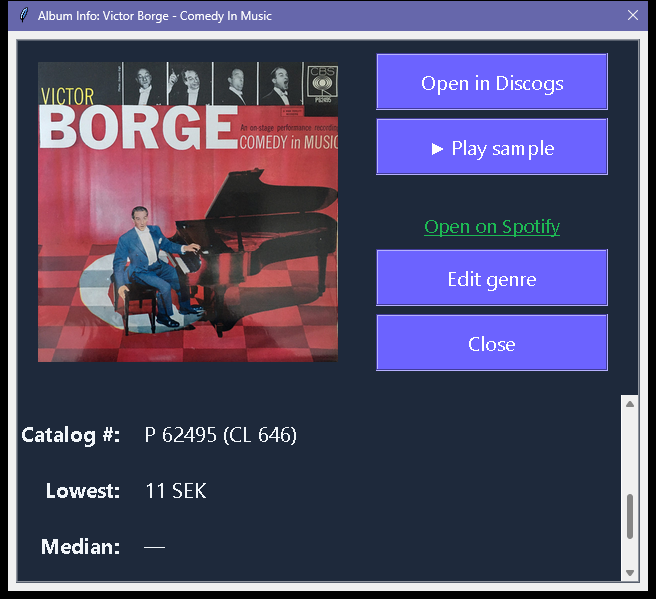
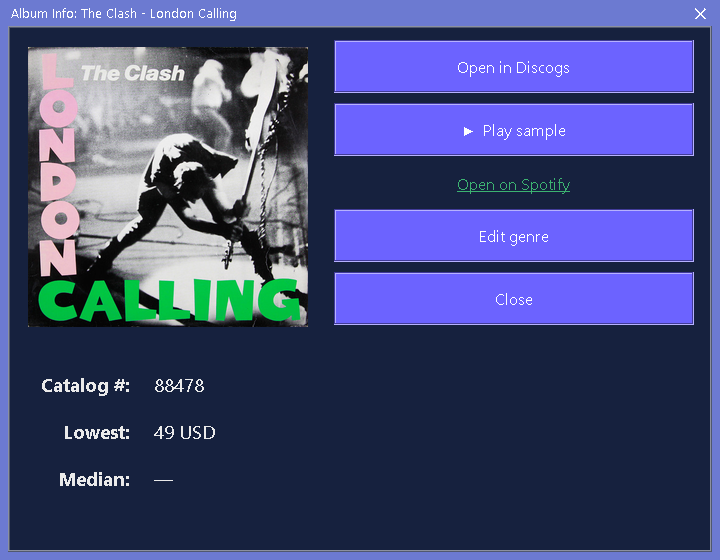
Enhance image display with zoom functionality and lightbox feature. Update styles for hero section and phone display, and replace existing images with new versions for better clarity.

diff --git a/index.html b/index.html
@@ -38,7 +38,16 @@
         </div>
         <p class="fine">Not affiliated with Discogs.</p>
       </div>
-      <img class="shot" src="assets/shelf.png" alt="Spindle cabinet view with record spines on eight shelves">
+      <div class="hero-pair">
+        <a class="zoom" href="assets/shelf.png" data-zoom aria-label="View larger: Spindle cabinet view with record spines on eight shelves">
+          <img class="shot" src="assets/shelf.png" alt="Spindle cabinet view with record spines on eight shelves">
+        </a>
+        <a class="zoom hero-phone" href="assets/phone-shelf.png" data-zoom aria-label="View larger: Spindle phone shelf view">
+          <span class="phone-frame">
+            <img src="assets/phone-shelf.png" alt="Spindle phone shelf view with album covers on a numbered shelf">
+          </span>
+        </a>
+      </div>
     </section>
 
     <section id="product" class="section">
@@ -48,7 +57,9 @@
       </div>
       <div class="features">
         <article class="feature">
-          <img class="shot" src="assets/collection-list.png" alt="Spindle collection list sorted by artist">
+          <a class="zoom" href="assets/collection-list.png" data-zoom aria-label="View larger: Spindle collection list sorted by artist">
+            <img class="shot" src="assets/collection-list.png" alt="Spindle collection list sorted by artist">
+          </a>
           <div>
             <h3>Shelf order that matches the crate</h3>
             <p>Artist, then title, then year. Leading articles come off. “Name and the …” stays with the solo name. Genre sort is there when you want sections instead of letters.</p>
@@ -66,7 +77,9 @@
           </div>
         </article>
         <article class="feature">
-          <img class="shot" src="assets/album-detail.png" alt="Album detail for Victor Borge, Comedy In Music, with a marketplace low of 11 SEK">
+          <a class="zoom" href="assets/album-detail.png" data-zoom aria-label="View larger: Album detail for The Clash, London Calling, with a marketplace low of 49 USD">
+            <img class="shot" src="assets/album-detail.png" alt="Album detail for The Clash, London Calling, with a marketplace low of 49 USD">
+          </a>
           <div>
             <h3>Prices, cabinets, and the phone</h3>
             <p>Pro shows marketplace prices with a local cache, drag-and-drop shelf order, and audio preview. Cabinets and genre edits sync to the phone through your Discogs notes.</p>
@@ -87,15 +100,21 @@
       </div>
       <div class="phone-row">
         <figure class="phone-frame">
-          <img src="assets/phone-shelf.png" alt="Spindle phone shelf view with album covers on Shelf 1">
+          <a class="zoom" href="assets/phone-shelf.png" data-zoom aria-label="View larger: Spindle phone shelf view with album covers on a numbered shelf">
+            <img src="assets/phone-shelf.png" alt="Spindle phone shelf view with album covers on a numbered shelf">
+          </a>
           <figcaption>Shelf</figcaption>
         </figure>
         <figure class="phone-frame">
-          <img src="assets/phone-scan.png" alt="Spindle phone barcode scanner pointed at a release">
+          <a class="zoom" href="assets/phone-scan.png" data-zoom aria-label="View larger: Spindle phone barcode scanner pointed at a release">
+            <img src="assets/phone-scan.png" alt="Spindle phone barcode scanner pointed at a release">
+          </a>
           <figcaption>Scan</figcaption>
         </figure>
         <figure class="phone-frame">
-          <img src="assets/phone-wishlist.png" alt="Spindle phone wishlist with Discogs wantlist albums">
+          <a class="zoom" href="assets/phone-wishlist.png" data-zoom aria-label="View larger: Spindle phone wishlist with Discogs wantlist albums">
+            <img src="assets/phone-wishlist.png" alt="Spindle phone wishlist with Discogs wantlist albums">
+          </a>
           <figcaption>Wishlist</figcaption>
         </figure>
       </div>
@@ -154,5 +173,34 @@
     </div>
     <p class="fine">© 2026 Jonathan C Edwards. Not affiliated with Discogs.</p>
   </footer>
+
+  <dialog class="lightbox" id="lightbox" aria-label="Enlarged screenshot">
+    <button type="button" class="lightbox-close" aria-label="Close">Close</button>
+    <img alt="">
+  </dialog>
+  <script>
+    (function () {
+      var box = document.getElementById("lightbox");
+      var img = box.querySelector("img");
+      var closeBtn = box.querySelector(".lightbox-close");
+      document.querySelectorAll("[data-zoom]").forEach(function (link) {
+        link.addEventListener("click", function (event) {
+          event.preventDefault();
+          var thumb = link.querySelector("img");
+          img.src = link.getAttribute("href");
+          img.alt = thumb ? thumb.getAttribute("alt") || "" : "";
+          box.showModal();
+        });
+      });
+      closeBtn.addEventListener("click", function () { box.close(); });
+      box.addEventListener("click", function (event) {
+        if (event.target === box) box.close();
+      });
+      box.addEventListener("close", function () {
+        img.removeAttribute("src");
+        img.alt = "";
+      });
+    })();
+  </script>
 </body>
 </html>

diff --git a/styles.css b/styles.css
@@ -115,8 +115,8 @@ img { max-width: 100%; }
 
 .hero {
   display: grid;
-  grid-template-columns: 1fr 1.15fr;
-  gap: 2.5rem;
+  grid-template-columns: minmax(16rem, 0.92fr) minmax(0, 1.28fr);
+  gap: 2rem;
   align-items: center;
   padding: 2.4rem 0 4rem;
 }
@@ -166,6 +166,86 @@ h1 {
   border: 1px solid var(--line);
   background: #0a0e1a;
   box-shadow: var(--shadow);
+}
+
+.hero-pair {
+  display: grid;
+  grid-template-columns: minmax(0, 1fr) minmax(8.5rem, 11.25rem);
+  gap: 0.9rem;
+  align-items: center;
+}
+
+.hero-phone {
+  align-self: stretch;
+  display: flex;
+}
+
+.hero-phone .phone-frame {
+  display: flex;
+  flex-direction: column;
+  justify-content: center;
+  height: 100%;
+}
+
+.zoom {
+  display: block;
+  color: inherit;
+  text-decoration: none;
+  cursor: zoom-in;
+  border-radius: inherit;
+}
+
+.zoom:hover img {
+  filter: brightness(1.07);
+}
+
+.zoom:focus-visible {
+  outline: 2px solid var(--accent);
+  outline-offset: 3px;
+}
+
+.lightbox {
+  position: relative;
+  max-width: min(96vw, 1400px);
+  max-height: 94vh;
+  margin: auto;
+  padding: 2.4rem 1.1rem 1.1rem;
+  border: 1px solid var(--line);
+  border-radius: 14px;
+  background: #0a0e1a;
+  color: var(--ink);
+}
+
+.lightbox::backdrop {
+  background: rgba(4, 6, 14, 0.82);
+}
+
+.lightbox img {
+  display: block;
+  max-width: min(92vw, 1360px);
+  max-height: calc(94vh - 3.2rem);
+  width: auto;
+  height: auto;
+  margin: 0 auto;
+  border-radius: 8px;
+}
+
+.lightbox-close {
+  position: absolute;
+  top: 0.45rem;
+  right: 0.55rem;
+  padding: 0.25rem 0.55rem;
+  border: 0;
+  border-radius: 999px;
+  background: var(--panel);
+  color: var(--ink);
+  font: 0.85rem/1.2 var(--sans);
+  cursor: pointer;
+}
+
+.lightbox-close:hover {
+  background: var(--accent);
+  color: #fff;
 }
 
 .section { padding: 1rem 0 4.5rem; }
@@ -242,6 +322,7 @@ h3 { margin: 0 0 0.45rem; font-size: 1.45rem; }
 }
 
 .phone-frame {
+  display: block;
   margin: 0;
   padding: 0.7rem 0.7rem 0.85rem;
   border-radius: 28px;
@@ -373,9 +454,18 @@ h3 { margin: 0 0 0.45rem; font-size: 1.45rem; }
     display: grid;
   }
 
+  .hero-pair {
+    grid-template-columns: minmax(0, 1fr) 6.75rem;
+  }
+
   .phone-frame {
     max-width: 22rem;
     margin-inline: auto;
+  }
+
+  .hero-phone .phone-frame {
+    max-width: none;
+    margin-inline: 0;
   }
 
   .feature-flip .feature-visual { order: 0; }
